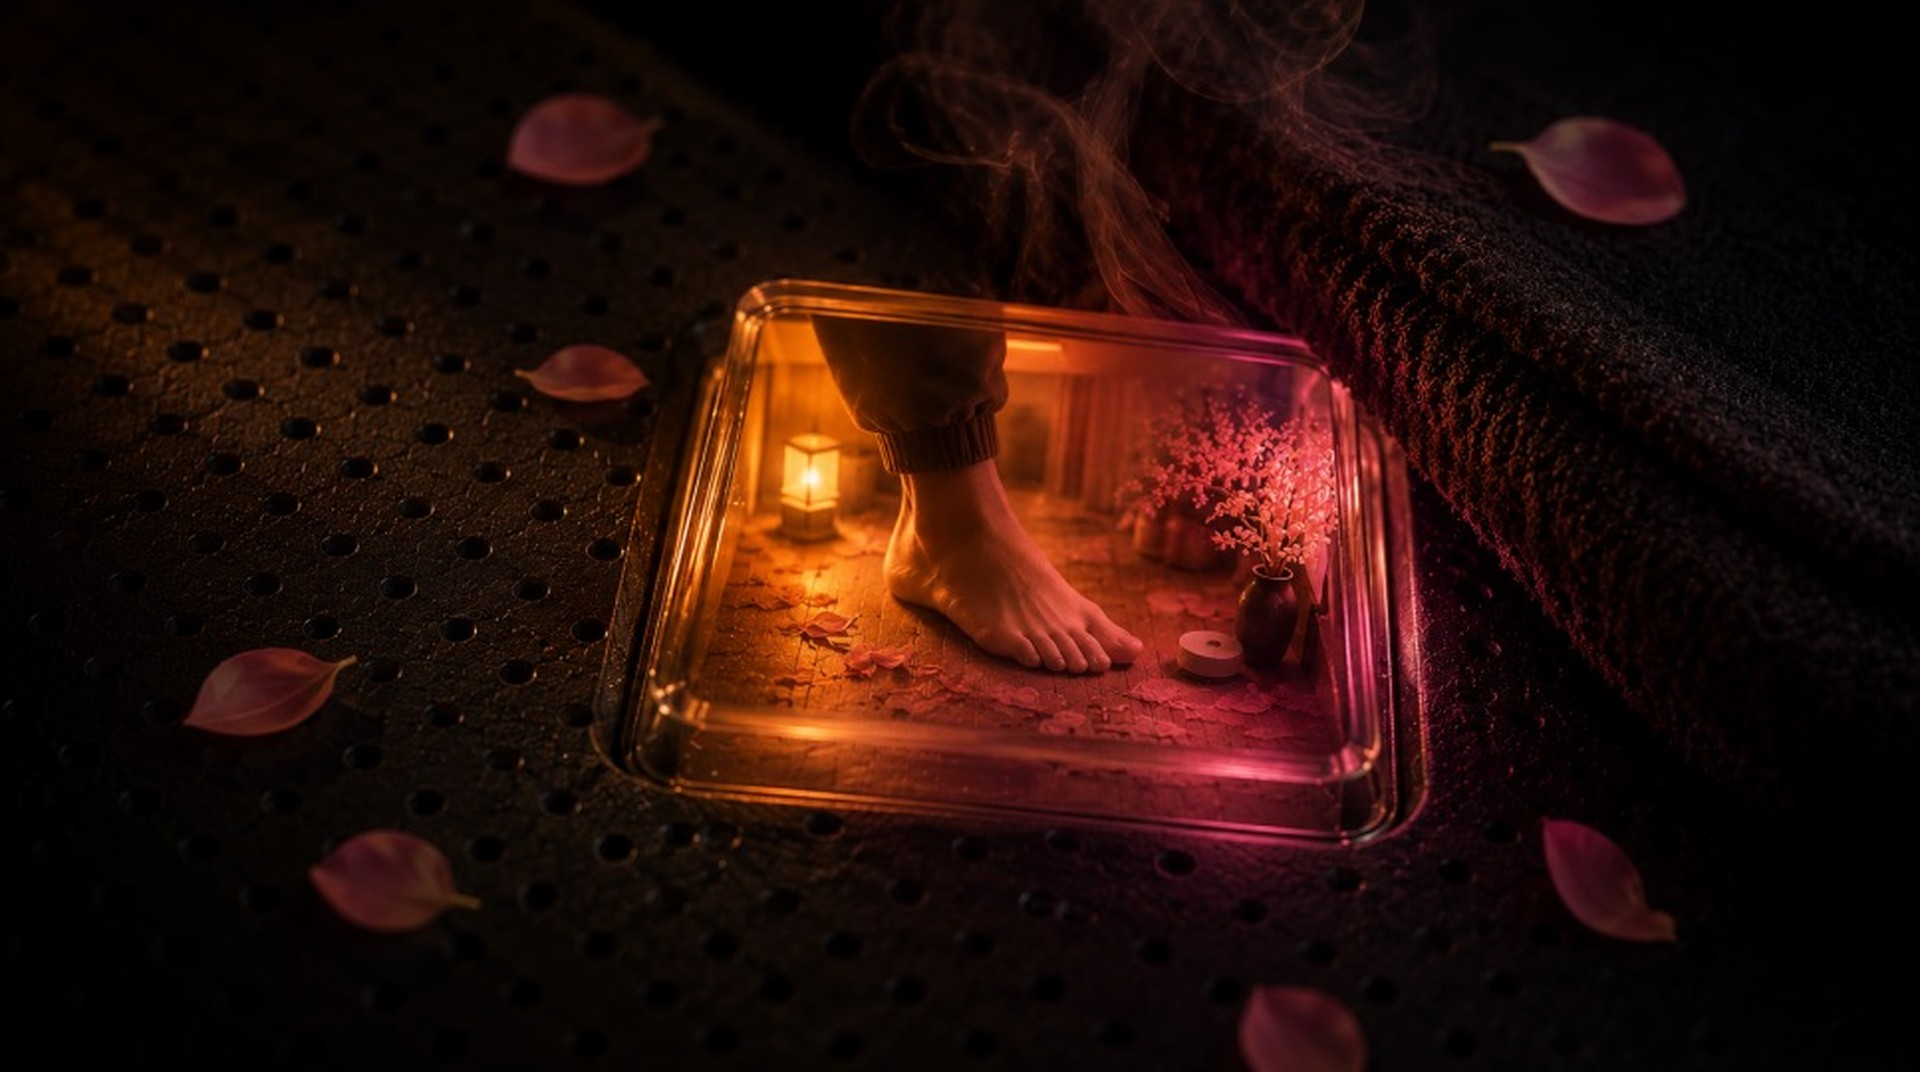
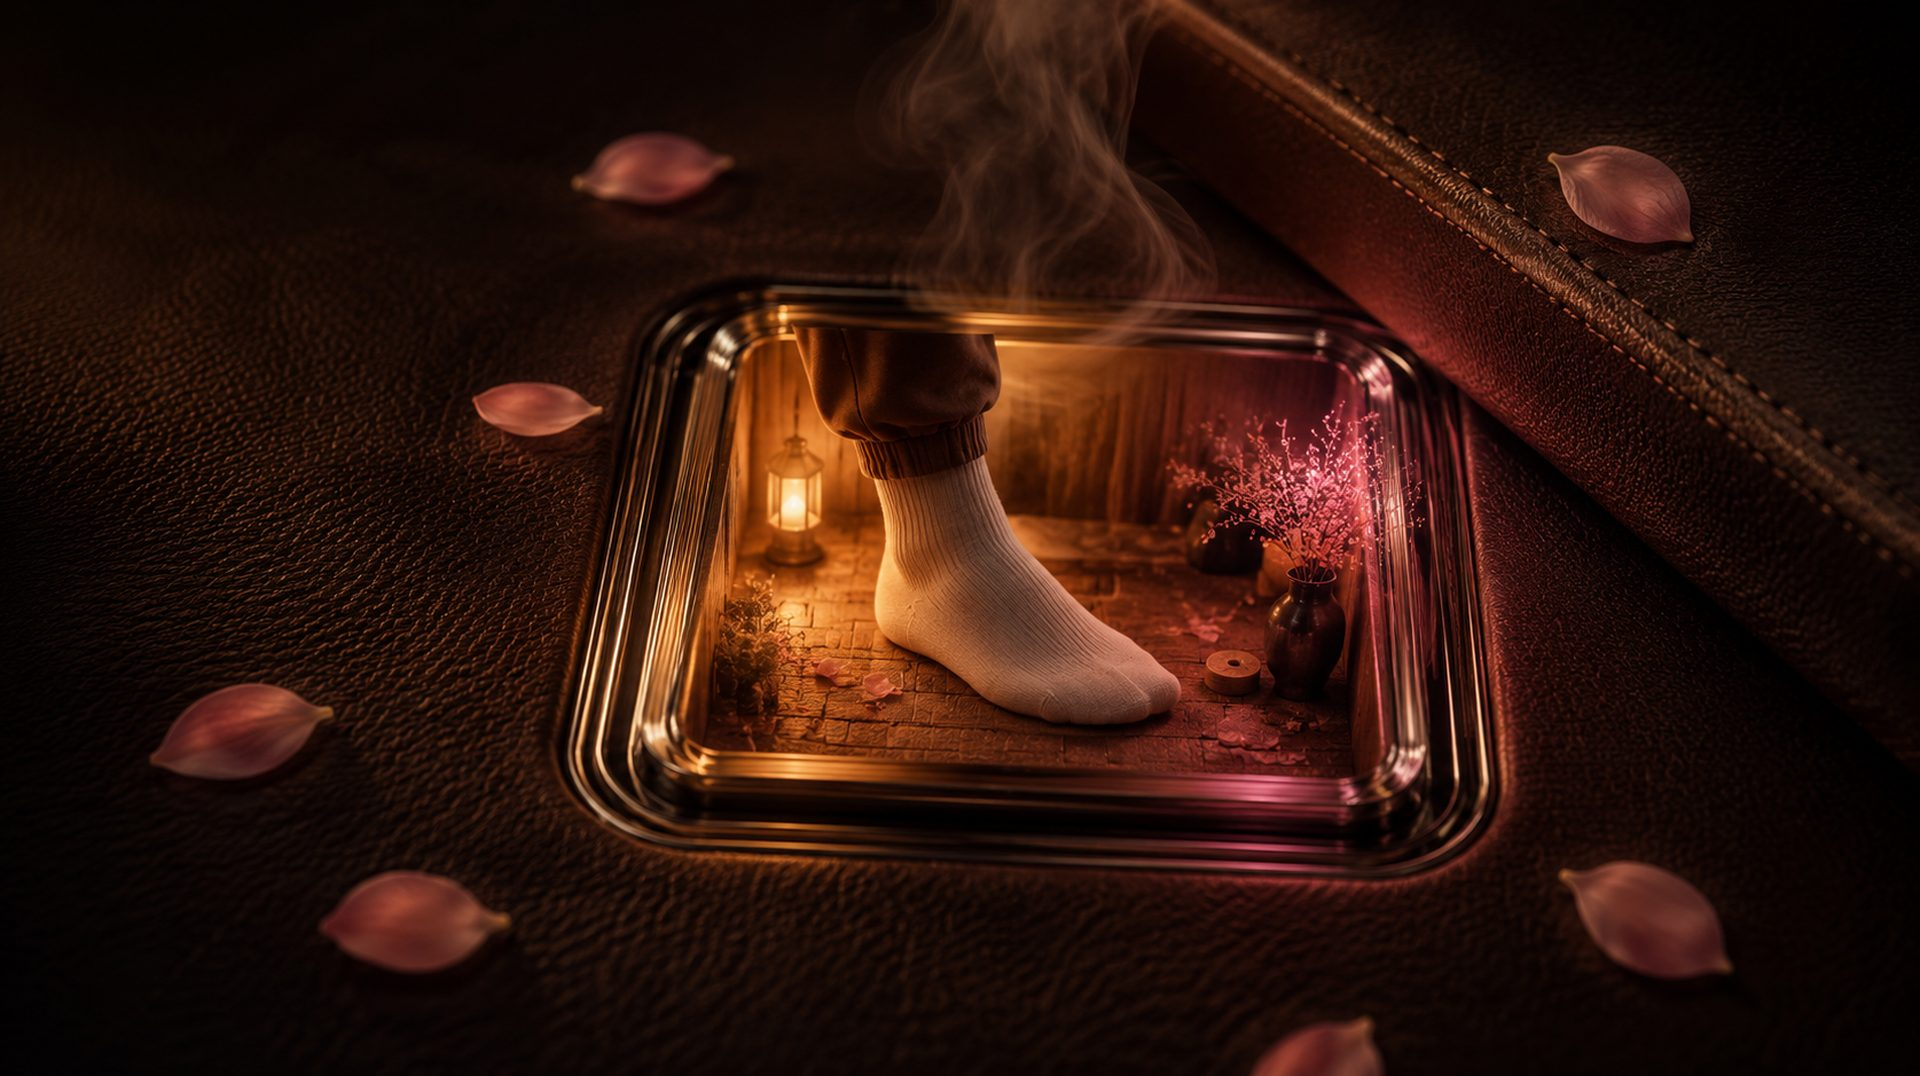
1

diff --git a/src/sona.html b/src/sona.html
@@ -535,7 +535,7 @@
       sheetImg=document.getElementById('sheetImg'),
       sheetName=document.getElementById('sheetName'),
       sheetText=document.getElementById('sheetText');
-  function openSheet(s){ sheetImg.src=s.img+'?v=2'; sheetImg.alt=s.name; sheetName.textContent=s.name; sheetText.textContent=s.text; sheet.classList.add('open'); document.documentElement.style.overflow='hidden'; }
+  function openSheet(s){ sheetImg.src=s.img+'?v=3'; sheetImg.alt=s.name; sheetName.textContent=s.name; sheetText.textContent=s.text; sheet.classList.add('open'); document.documentElement.style.overflow='hidden'; }
   function closeSheet(){ sheet.classList.remove('open'); document.documentElement.style.overflow=''; }
   document.getElementById('sheetClose').addEventListener('click',closeSheet);
 
@@ -544,7 +544,7 @@
   function s2card(s,dup){
     var c=document.createElement('div'); c.className='card';
     if(dup) c.setAttribute('aria-hidden','true');
-    c.innerHTML='<img src="'+s.img+'?v=2" alt="'+(dup?'':s.name)+'" loading="lazy" draggable="false">';
+    c.innerHTML='<img src="'+s.img+'?v=3" alt="'+(dup?'':s.name)+'" loading="lazy" draggable="false">';
     gal2.appendChild(c);
   }
   SCENES.forEach(function(s){ s2card(s,false); });   // set 1
@@ -554,7 +554,7 @@
   var gal4=document.getElementById('gal4');
   SENSES.forEach(function(s){
     var c=document.createElement('div'); c.className='card';
-    c.innerHTML='<img src="'+s.img+'?v=2" alt="'+s.label+'" loading="lazy" draggable="false"><span class="label">'+s.label+'</span>';
+    c.innerHTML='<img src="'+s.img+'?v=3" alt="'+s.label+'" loading="lazy" draggable="false"><span class="label">'+s.label+'</span>';
     gal4.appendChild(c);
   });
 
@@ -803,7 +803,7 @@
               1:[[150,192,222],[120,164,204],[200,222,236],[150,190,210],[176,204,224]],
               2:[[70,110,175],[150,120,90],[96,150,150],[60,90,150],[150,140,120]],
               3:[[236,214,150],[214,204,120],[150,182,110],[236,222,180],[200,196,130]],
-              4:[[120,178,110],[150,192,120],[92,142,100],[168,196,140],[110,160,110]]};
+              4:[[168,110,66],[150,96,58],[120,74,44],[178,124,74],[138,86,52]]};   /* air: warm brown (new photo) */
     function drawBG(now){   /* whole background takes on the centred card's colours (wash) + breathing halos */
       if(!bctx) return;
       var p=(mode>=0)?(samplePalette(mode)||FALL[mode]):null; if(p) tgtPal=p;

diff --git a/src/cities.html b/src/cities.html
@@ -67,8 +67,8 @@
   .hero .hero-top,.hero .hero-title{opacity:0;}   /* hidden until the line-reveal runs (no flash of static text) */
   @media(max-width:640px){ html[lang="zh"] .hero-top{max-width:min(78vw,430px);} }   /* keep the ZH question to two lines — no lonely "子?" */
   @media(prefers-reduced-motion:reduce){ .hero .hero-top,.hero .hero-title{opacity:1;} }
-  html[lang="zh"] .hero-title{font-family:var(--serif);font-weight:900;font-size:clamp(80px,16vw,240px);letter-spacing:.02em;line-height:.98;text-shadow:0 3px 40px rgba(0,0,0,.55);}
-  html[lang="en"] .hero-title{font-size:clamp(46px,10vw,152px);max-width:min(84vw,1240px);line-height:.98;}   /* "CONQUEST OF" (nbsp-glued) + "PARADISE" → exactly two lines */
+  html[lang="zh"] .hero-title{font-family:var(--serif);font-weight:900;font-size:clamp(72px,min(15vw,26vh),220px);letter-spacing:.02em;line-height:.98;text-shadow:0 3px 40px rgba(0,0,0,.55);}   /* scale by the SMALLER of width/height so a wide-short window doesn't blow it up */
+  html[lang="en"] .hero-title{font-size:clamp(44px,min(10vw,17vh),150px);max-width:min(84vw,1240px);line-height:.98;}   /* two lines; capped by height so a wide-short window doesn't oversize it */
 
   /* intro — left-aligned block, centred on the page */
   .intro{padding:clamp(90px,16vh,200px) clamp(24px,6vw,80px);}